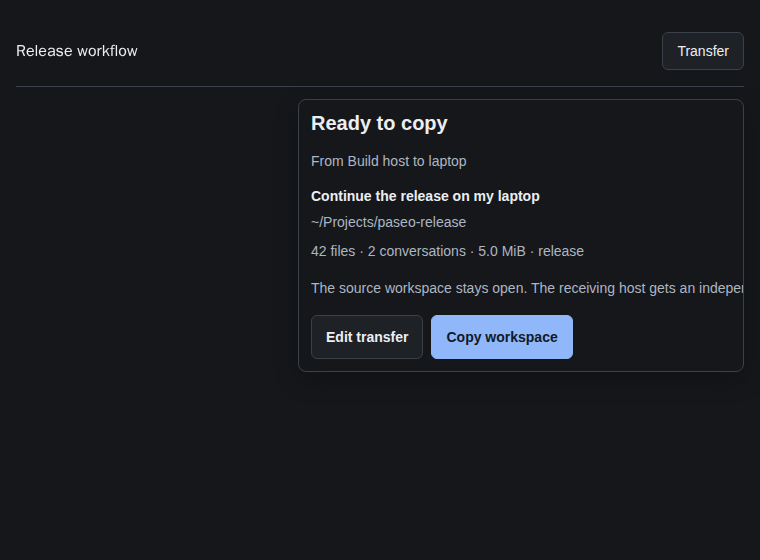
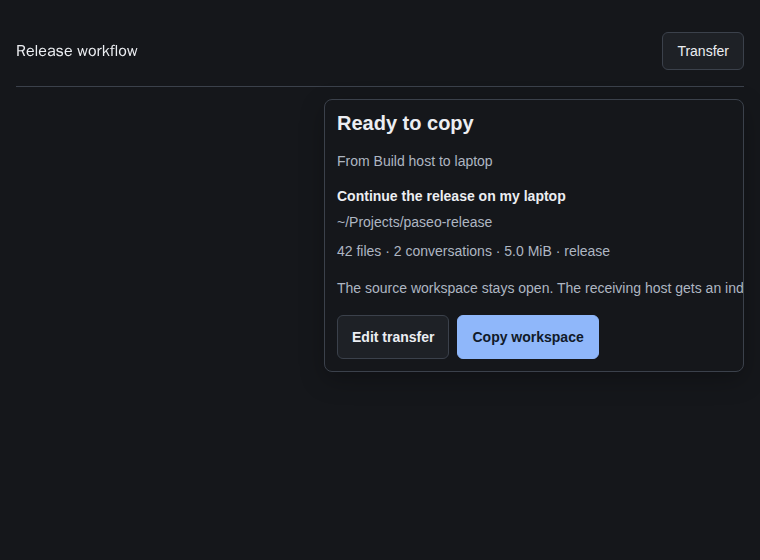
Match preview bounds to Paseo popup sizing

diff --git a/scripts/ui-preview.tsx b/scripts/ui-preview.tsx
@@ -25,7 +25,7 @@ if(method==='transfer.status')return {state:'done',message:'Workspace copied and
 const client=new QueryClient();
 window.fixtureCalls=[];
 const recordedInvoke=async(method,input)=>{window.fixtureCalls.push({method,input});return invoke(method,input);};
-function App(){const [compact,setCompact]=React.useState(innerWidth<700);const [open,setOpen]=React.useState(false);React.useEffect(()=>{const change=()=>setCompact(innerWidth<700);addEventListener('resize',change);return()=>removeEventListener('resize',change);},[]);const props={theme,host:{id:'fixture',label:'Build host'},layout:{compact,platform:'web'}};const page=new URLSearchParams(location.search).has('screen');return <QueryClientProvider client={client}><PluginRpcProvider invoke={recordedInvoke}>{page?<TransferSurface {...props}/>:<div style={{maxWidth:760,margin:'32px auto',padding:'0 16px',fontFamily:'system-ui',color:theme.colors.foreground}}><header style={{display:'flex',alignItems:'center',justifyContent:'space-between',gap:16,borderBottom:'1px solid '+theme.colors.border,paddingBottom:16}}><span style={{fontSize:16,fontWeight:600}}>Release workflow</span><button aria-expanded={open} aria-controls="transfer-popup" onClick={()=>setOpen(!open)} style={{background:theme.colors.surface1,color:theme.colors.foreground,border:'1px solid '+theme.colors.border,borderRadius:6,padding:'10px 14px',fontSize:14,cursor:'pointer'}}>Transfer</button></header>{open&&<div role="dialog" aria-label="Transfer this workspace" id="transfer-popup" style={{display:'flex',marginTop:12,marginLeft:'auto',width:compact?'100%':420,maxHeight:440,border:'1px solid '+theme.colors.border,borderRadius:8,overflow:'auto',padding:12,boxShadow:'0 8px 24px rgba(0,0,0,.25)'}}><TransferPopover {...props} context="workspace" workspaceId="fixture" close={()=>setOpen(false)}/></div>}</div>}</PluginRpcProvider></QueryClientProvider>;}
+function App(){const [compact,setCompact]=React.useState(innerWidth<700);const [open,setOpen]=React.useState(false);React.useEffect(()=>{const change=()=>setCompact(innerWidth<700);addEventListener('resize',change);return()=>removeEventListener('resize',change);},[]);const props={theme,host:{id:'fixture',label:'Build host'},layout:{compact,platform:'web'}};const page=new URLSearchParams(location.search).has('screen');return <QueryClientProvider client={client}><PluginRpcProvider invoke={recordedInvoke}>{page?<TransferSurface {...props}/>:<div style={{maxWidth:760,margin:'32px auto',padding:'0 16px',fontFamily:'system-ui',color:theme.colors.foreground}}><header style={{display:'flex',alignItems:'center',justifyContent:'space-between',gap:16,borderBottom:'1px solid '+theme.colors.border,paddingBottom:16}}><span style={{fontSize:16,fontWeight:600}}>Release workflow</span><button aria-expanded={open} aria-controls="transfer-popup" onClick={()=>setOpen(!open)} style={{background:theme.colors.surface1,color:theme.colors.foreground,border:'1px solid '+theme.colors.border,borderRadius:6,padding:'10px 14px',fontSize:14,cursor:'pointer'}}>Transfer</button></header>{open&&<div role="dialog" aria-label="Transfer this workspace" id="transfer-popup" style={{display:'flex',boxSizing:'border-box',marginTop:12,marginLeft:'auto',width:compact?'100%':420,maxHeight:440,border:'1px solid '+theme.colors.border,borderRadius:8,overflow:'auto',padding:12,boxShadow:'0 8px 24px rgba(0,0,0,.25)'}}><TransferPopover {...props} context="workspace" workspaceId="fixture" close={()=>setOpen(false)}/></div>}</div>}</PluginRpcProvider></QueryClientProvider>;}
 createRoot(document.getElementById('root')).render(<App/>);
 `,
 );
